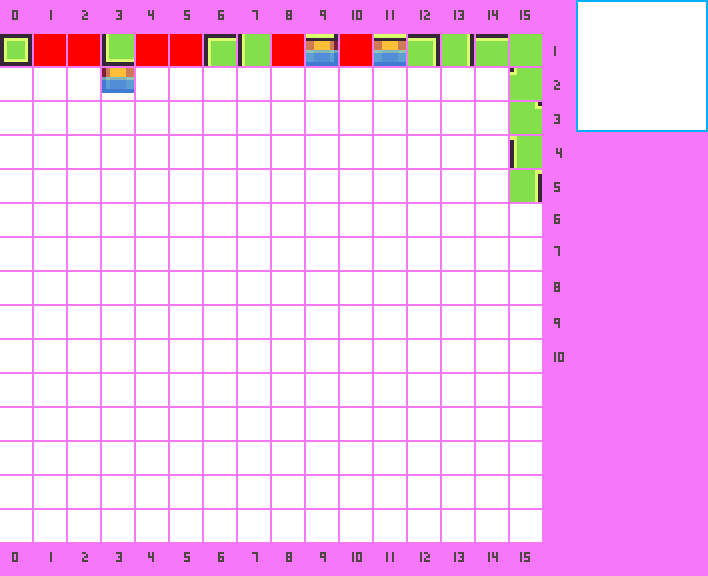
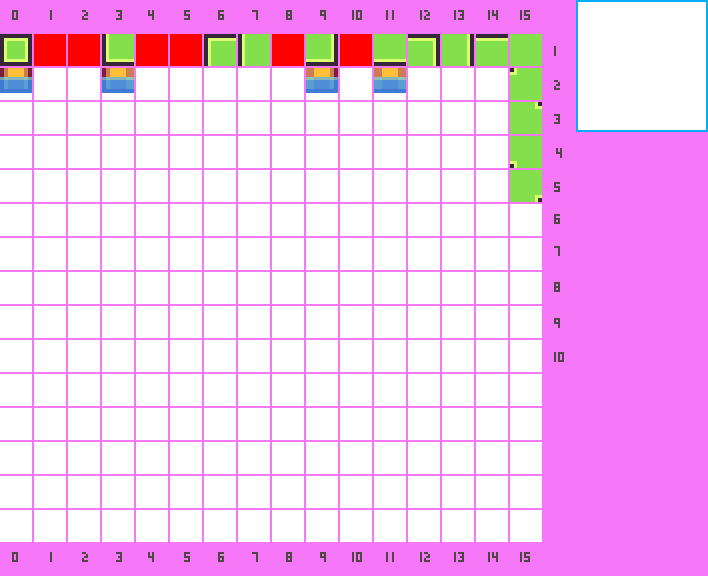
Fixed art assets

diff --git a/src/main/world/Tile.java b/src/main/world/Tile.java
@@ -14,6 +14,7 @@ public class Tile {
     private int id;
 
     private Image tile;
+    private Image additionalAttachedImage;
 
     private static boolean loadedSpriteSheet = false;
     private static SpriteSheet tileSheet;
@@ -39,7 +40,10 @@ public class Tile {
 
     public void draw() {
         if(id == 1 && tile != null) {
-            tile.draw(x, y);
+            if(tile != null)
+                tile.draw(x, y);
+            if(additionalAttachedImage != null)
+                additionalAttachedImage.draw(x, y + 32);
         }
     }
 
@@ -57,6 +61,18 @@ public class Tile {
         
         // West, 2^3
         if(isValid(map, row, col - 1) && map[row][col - 1].isInteractable()) sum += 8;
+
+
+        // Edge case blocks which requires ground block addition to the bottom
+        if(sum == 0) {
+            additionalAttachedImage = tileSheet.getSubImage(0, 2);
+        }else if(sum == 3) {
+            additionalAttachedImage = tileSheet.getSubImage(3, 2);
+        }else if(sum == 9) {
+            additionalAttachedImage = tileSheet.getSubImage(9, 2);
+        }else if(sum == 11) {
+            additionalAttachedImage = tileSheet.getSubImage(11, 2);
+        }
 
         // Center tile exception
         if(sum == 15) {

diff --git a/src/main/world/World.java b/src/main/world/World.java
@@ -29,8 +29,8 @@ public class World {
 
         map = new Tile[rows][cols];
 
-        for(int row=0; row<map.length; row++) {
-            for(int col=0; col<map[0].length; col++) {
+        for(int row=0; row<rows; row++) {
+            for(int col=0; col<cols; col++) {
                 map[row][col] = new Tile(row, col, 0);
             }
         }
@@ -51,14 +51,13 @@ public class World {
             for(int col=0; col<map[0].length; col++) {
                 map[row][col].draw();
 
-//                container.getGraphics().drawLine(col * tileSize + 4, row * tileSize, col * tileSize + 28, row * tileSize);
-//                container.getGraphics().drawLine(col * tileSize, row * tileSize + 4, col * tileSize, row * tileSize + 28);
+                container.getGraphics().drawLine(col * tileSize + 4, row * tileSize, col * tileSize + 28, row * tileSize);
+                container.getGraphics().drawLine(col * tileSize, row * tileSize + 4, col * tileSize, row * tileSize + 28);
 
             }
         }
 
         createUsingMouseArea();
-
 
     }
 
@@ -113,7 +112,6 @@ public class World {
             map[my][mx] = new Tile(my, mx, 0);
             updateTile(my, mx);
         }
-
 
     }
 
